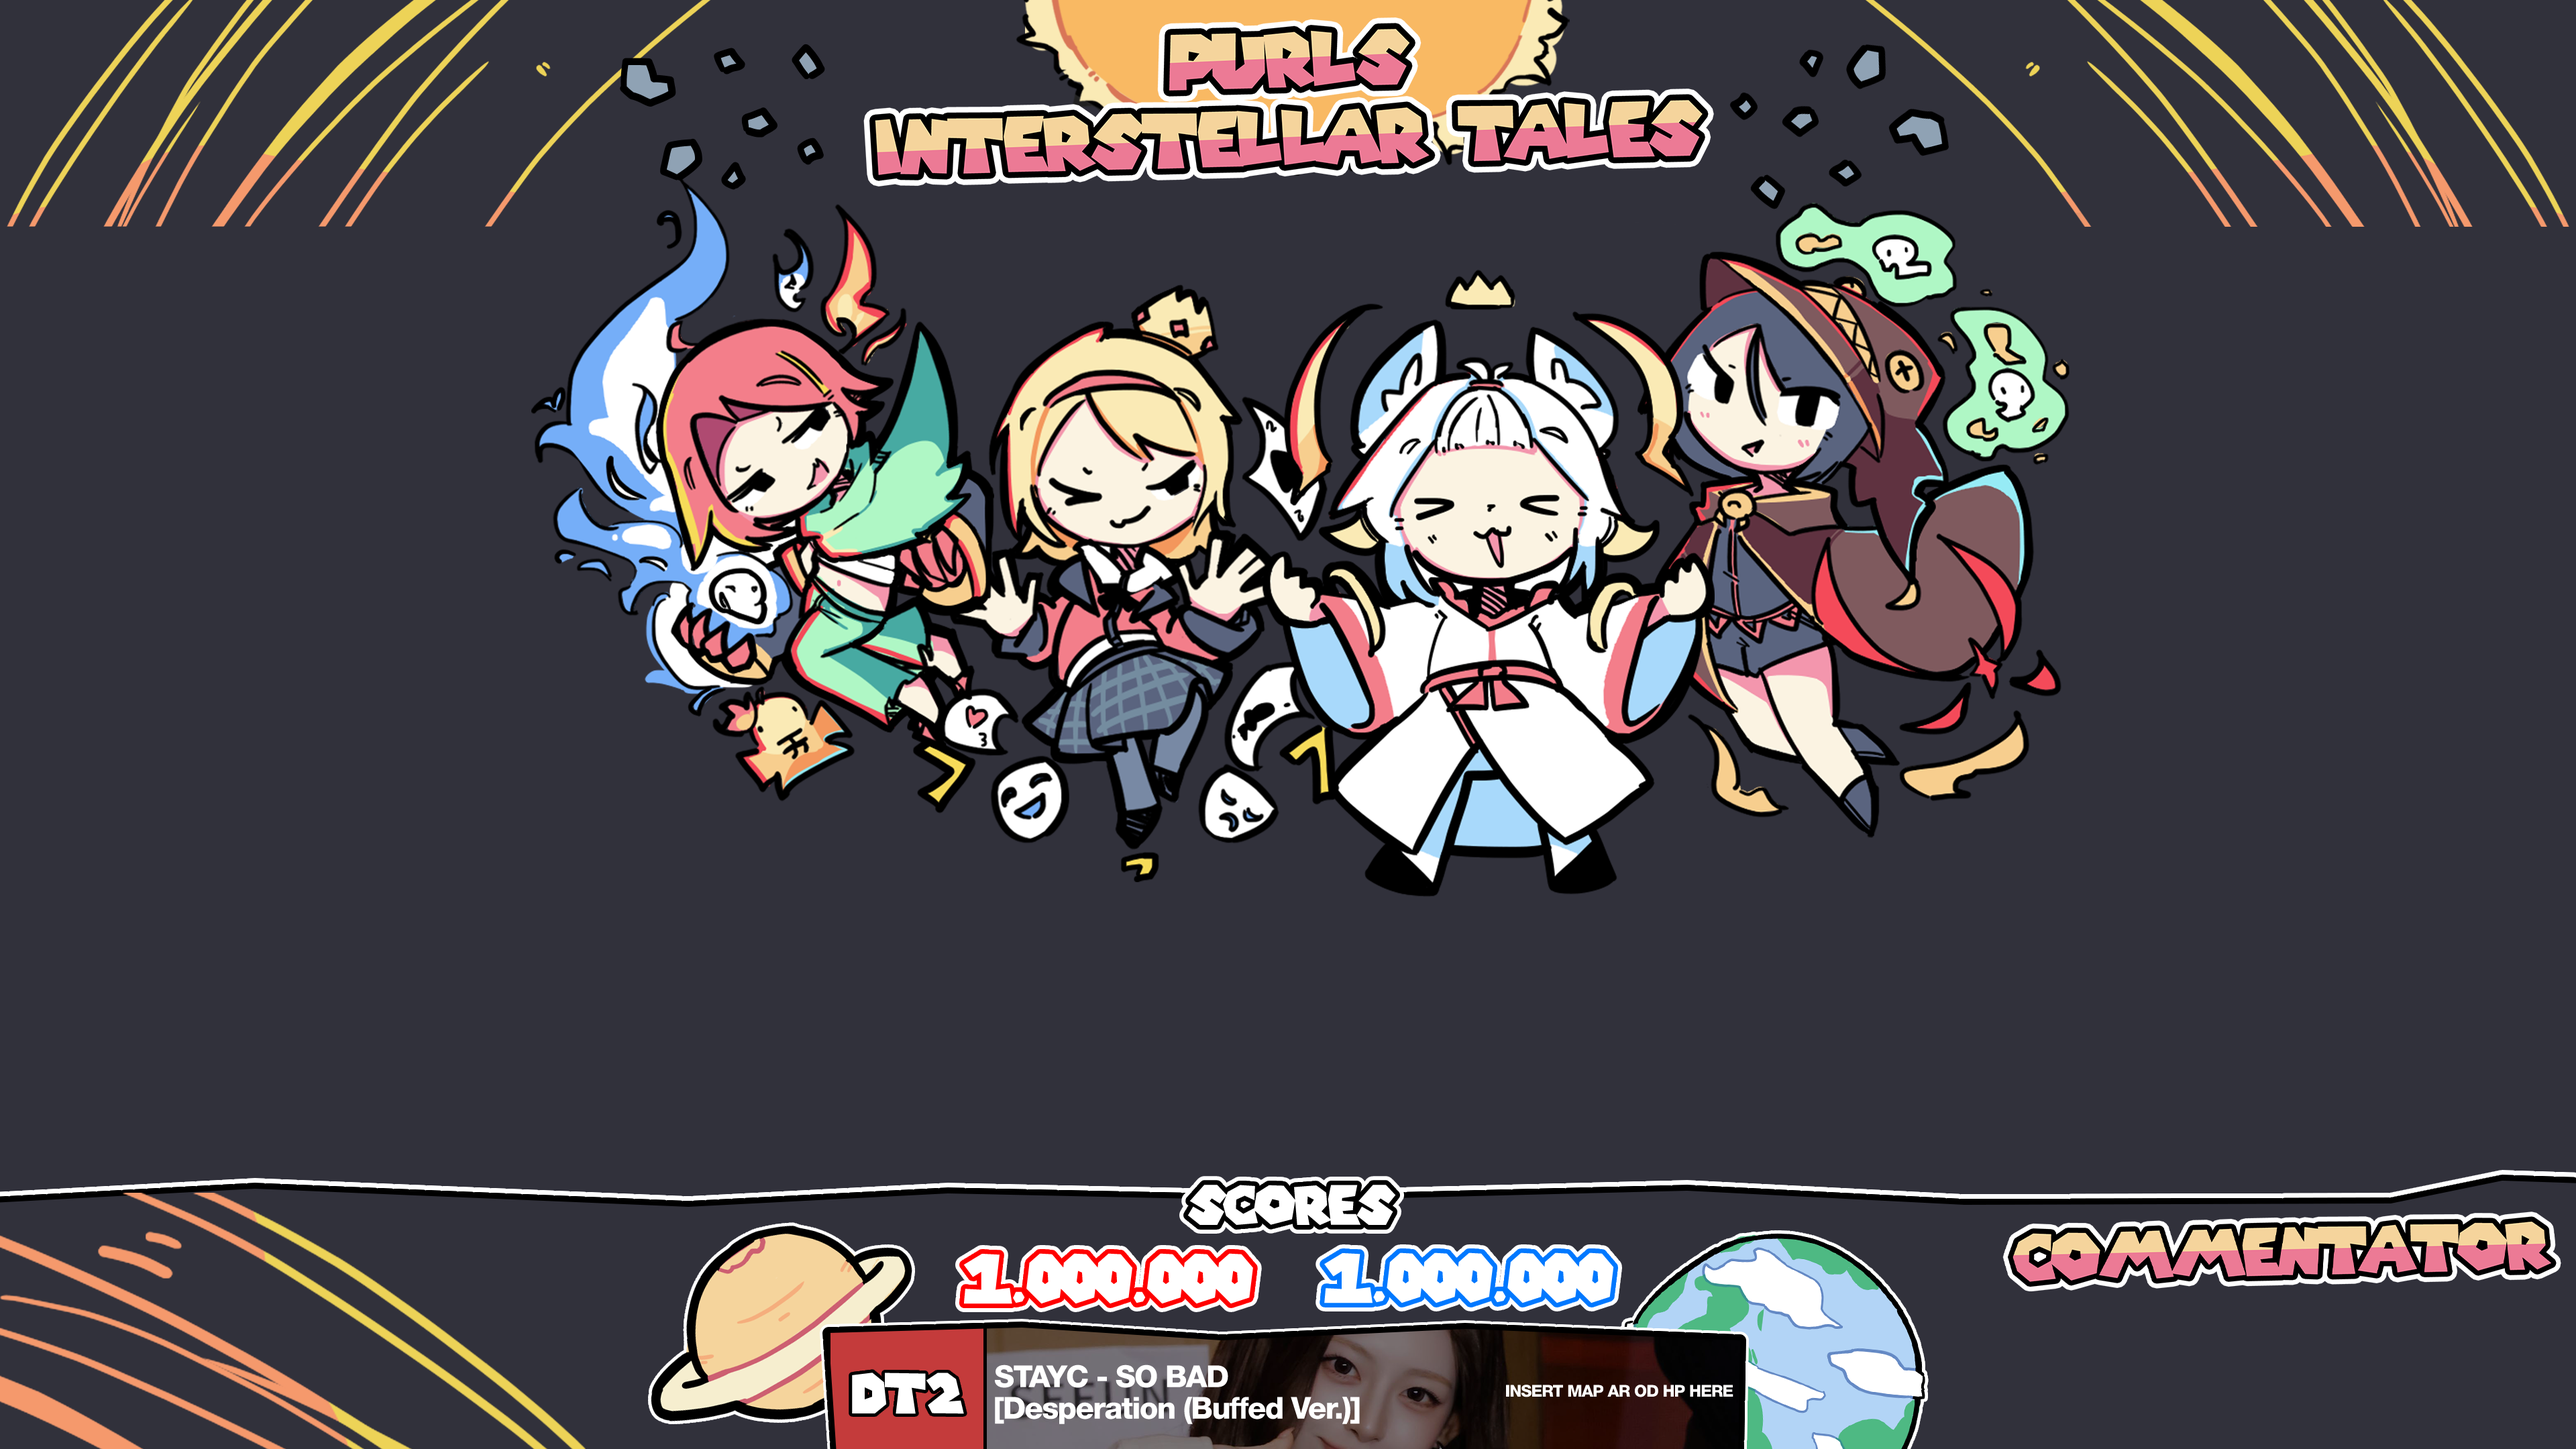
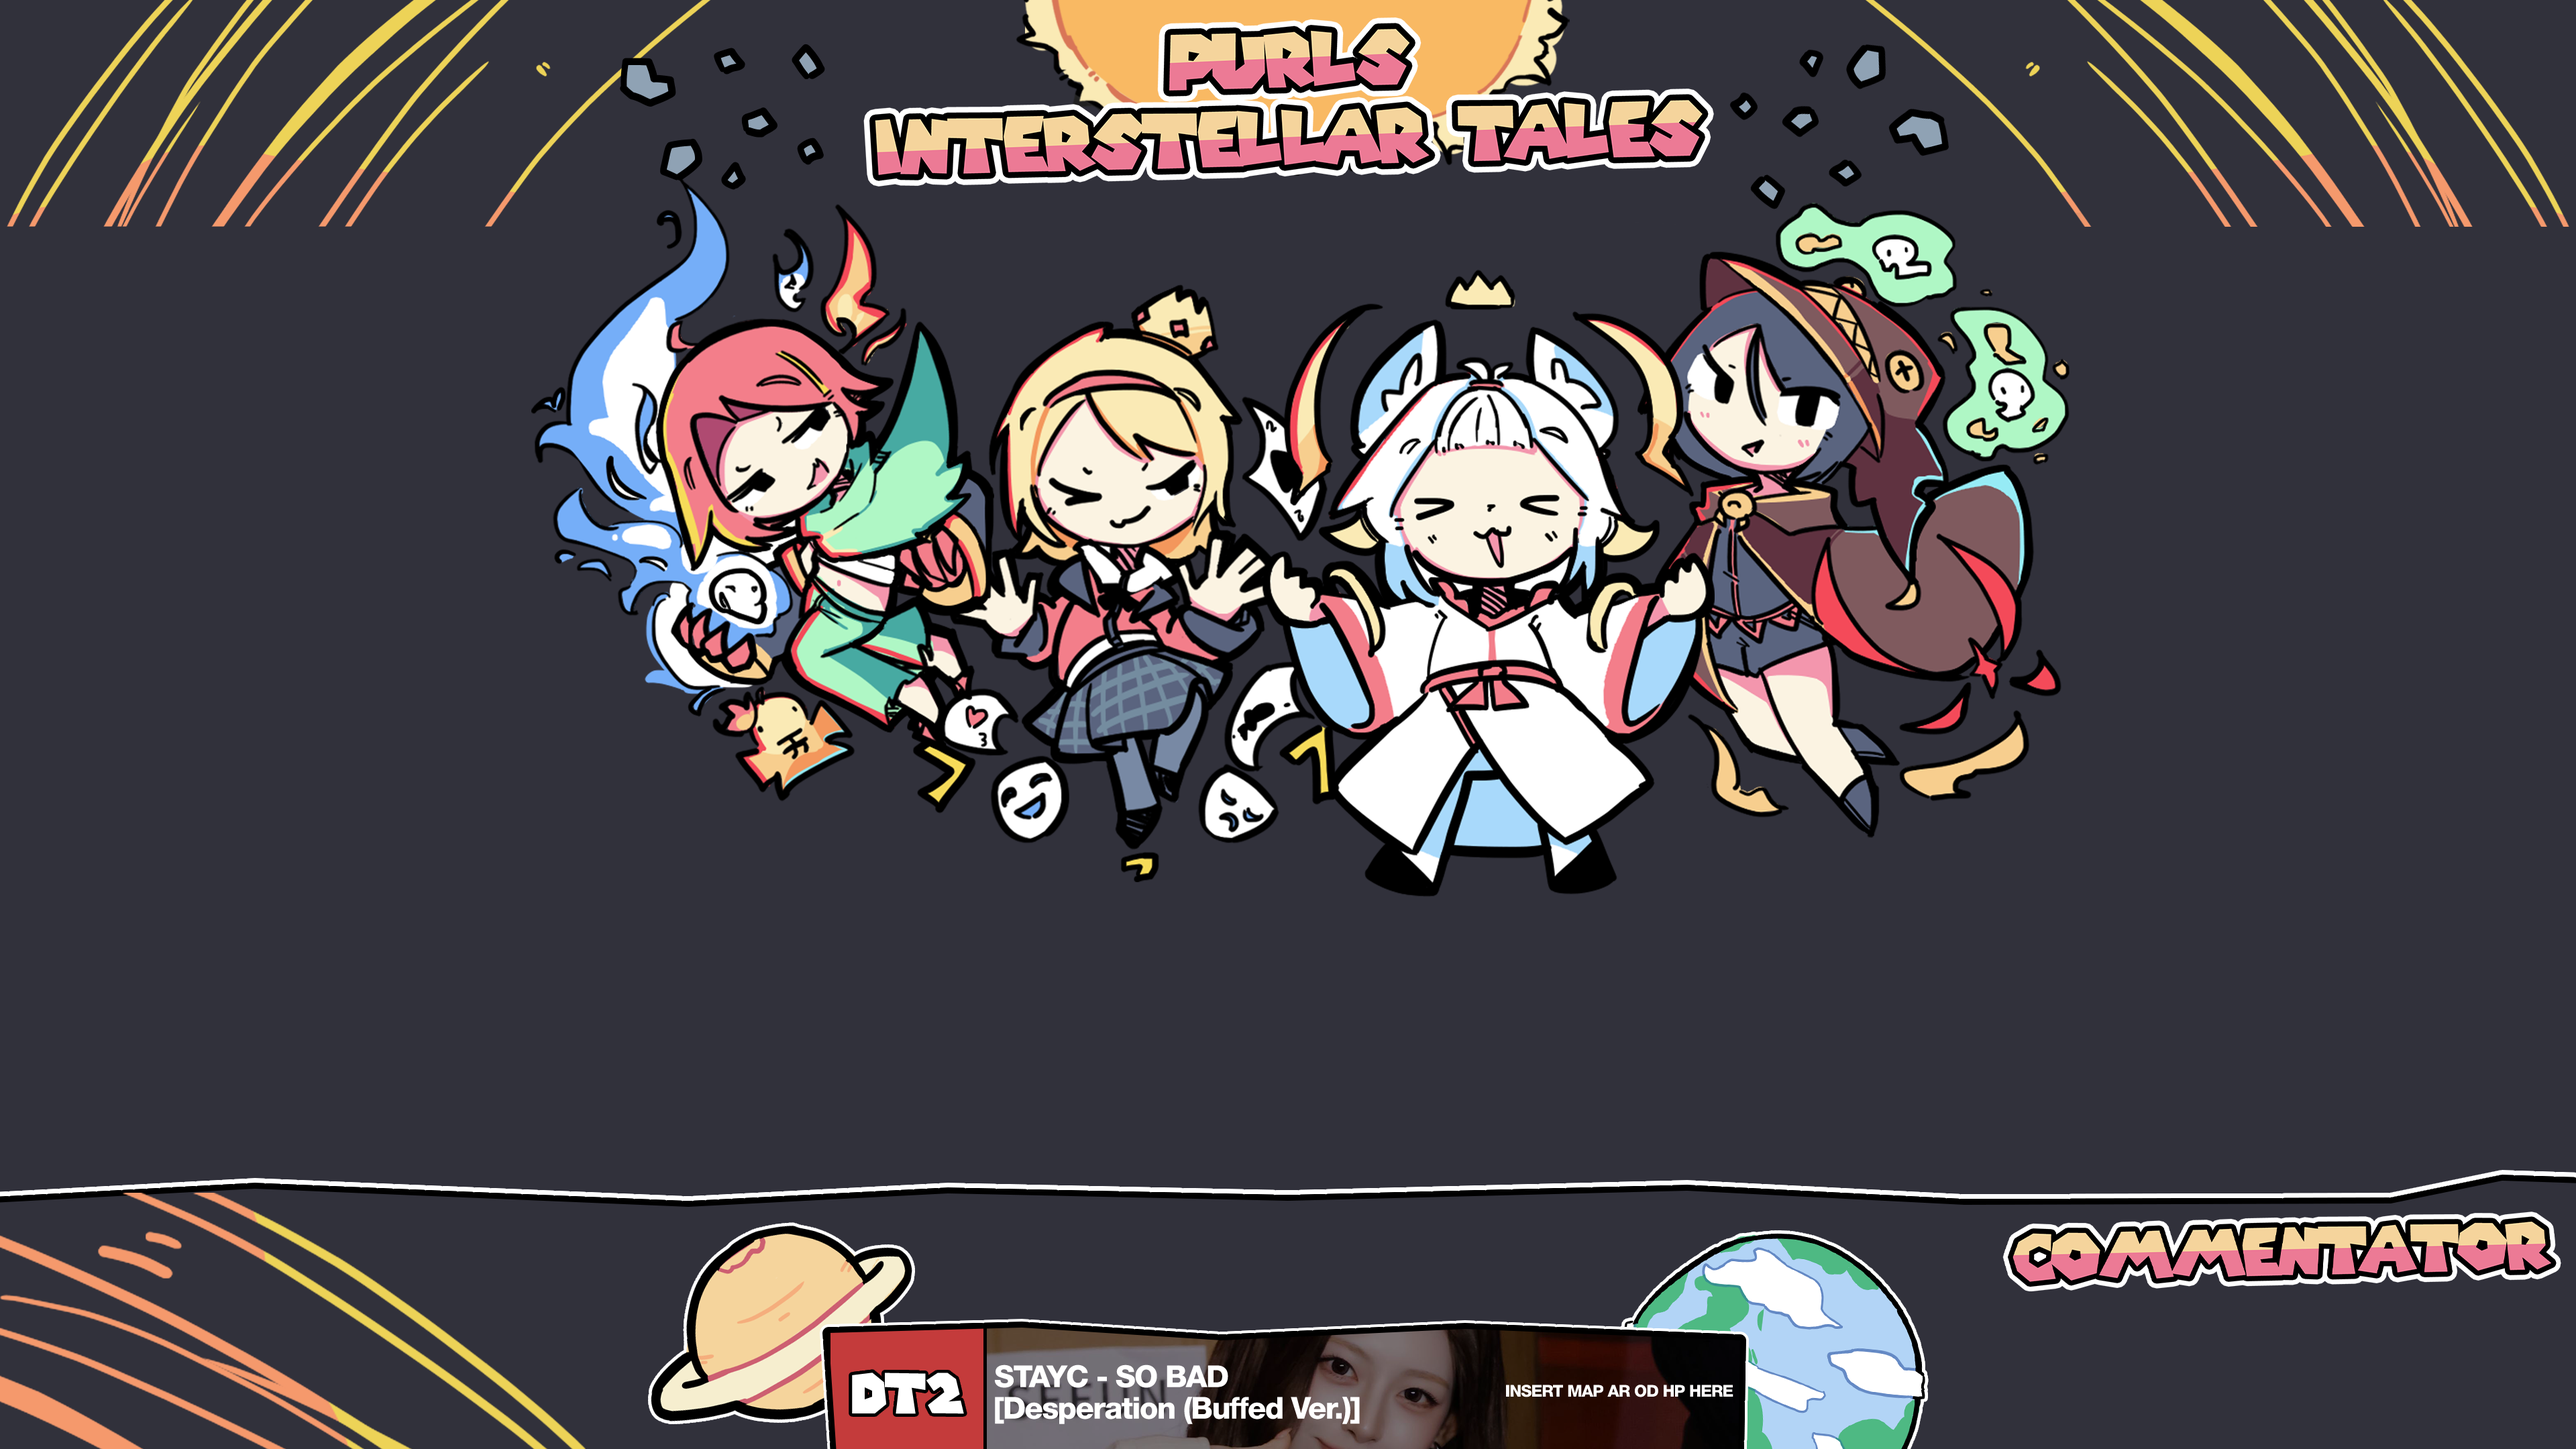
feat: add score styling

Changed region(s): [[0.3438, 0.8065, 0.6562, 0.9306], [0.4688, 0.9926, 0.5, 1.0], [0.4375, 0.9616, 0.4688, 0.9926]]

diff --git a/main/index.html b/main/index.html
@@ -36,7 +36,7 @@
                     <feComposite in="white-color" in2="white-round" operator="in" result="white-layer" />
                 
                     <!-- Inner red ring -->
-                    <feMorphology in="SourceAlpha" operator="dilate" radius="3" result="red-dilate" />
+                    <feMorphology in="SourceAlpha" operator="dilate" radius="3.5" result="red-dilate" />
                     <feGaussianBlur in="red-dilate" stdDeviation="1.5" result="red-blur" />
                     <feColorMatrix
                         in="red-blur"
@@ -110,7 +110,7 @@
                     <feComposite in="white-color" in2="white-round" operator="in" result="white-layer" />
                 
                     <!-- Inner black ring -->
-                    <feMorphology in="SourceAlpha" operator="dilate" radius="2.5" result="black-dilate" />
+                    <feMorphology in="SourceAlpha" operator="dilate" radius="3.5" result="black-dilate" />
                     <feGaussianBlur in="black-dilate" stdDeviation="1.2" result="black-blur" />
                     <feColorMatrix
                         in="black-blur"
@@ -147,6 +147,7 @@
                 ROUND NAME HERE
             </text>
         </svg>
+
         <!-- Team Name Right  -->
         <svg
             class="team-name-container team-name-container-right"
@@ -173,7 +174,7 @@
                     <feComposite in="white-color" in2="white-round" operator="in" result="white-layer" />
                 
                     <!-- Inner blue ring -->
-                    <feMorphology in="SourceAlpha" operator="dilate" radius="3" result="blue-dilate" />
+                    <feMorphology in="SourceAlpha" operator="dilate" radius="3.5" result="blue-dilate" />
                     <feGaussianBlur in="blue-dilate" stdDeviation="1.5" result="blue-blur" />
                     <feColorMatrix
                         in="blue-blur"
@@ -235,14 +236,141 @@
             <img class="chatbox-jupiter" src="static/chatbox/jupiter.png">
             <img class="chatbox-uranus" src="static/chatbox/uranus.png">
         </div>
+
+        <!-- Scores and Now Playing -->
+        <div class="scores-now-playing">
+            <!-- Scores Text -->
+            <img class="scores-text" src="static/scores.png">
+
+            <!-- Left Score -->
+            <svg
+                class="team-left-score-container"
+                xmlns="http://www.w3.org/2000/svg"
+                width="600"
+                height="104"
+                viewBox="0 0 600 104"
+            >
+                <defs>
+                    <filter id="outline-blend-score-red" x="-20%" y="-50%" width="140%" height="200%">
+                        <!-- Outer white ring -->
+                        <feMorphology in="SourceAlpha" operator="dilate" radius="6" result="white-dilate" />
+                        <feGaussianBlur in="white-dilate" stdDeviation="2.5" result="white-blur" />
+                        <feColorMatrix
+                            in="white-blur"
+                            type="matrix"
+                            values="0 0 0 0 0
+                                    0 0 0 0 0
+                                    0 0 0 0 0
+                                    0 0 0 25 -8"
+                            result="white-round"
+                        />
+                        <feFlood flood-color="white" result="white-color" />
+                        <feComposite in="white-color" in2="white-round" operator="in" result="white-layer" />
+                    
+                        <!-- Inner red ring -->
+                        <feMorphology in="SourceAlpha" operator="dilate" radius="3.5" result="red-dilate" />
+                        <feGaussianBlur in="red-dilate" stdDeviation="1.5" result="red-blur" />
+                        <feColorMatrix
+                            in="red-blur"
+                            type="matrix"
+                            values="0 0 0 0 0
+                                    0 0 0 0 0
+                                    0 0 0 0 0
+                                    0 0 0 25 -8"
+                            result="red-round"
+                        />
+                        <feFlood flood-color="#ff0000" result="red-color" />
+                        <feComposite in="red-color" in2="red-round" operator="in" result="red-layer" />
+                    
+                        <!-- Stack: white ring (bottom) -> red ring -> actual text fill (top) -->
+                        <feMerge>
+                            <feMergeNode in="white-layer" />
+                            <feMergeNode in="red-layer" />
+                            <feMergeNode in="SourceGraphic" />
+                        </feMerge>
+                    </filter>
+                </defs>
+            
+                <text
+                    x="553"
+                    y="78"
+                    text-anchor="end"
+                    font-size="48px"
+                    letter-spacing="-1"
+                    font-family="Super Mario Galaxy"
+                    fill="white"
+                    class="team-name-right"
+                    filter="url(#outline-blend-score-red)"
+                >
+                    1,000,000
+                </text>
+            </svg>
+
+            <!-- Right Score -->
+            <svg
+                class="team-right-score-container"
+                xmlns="http://www.w3.org/2000/svg"
+                width="600"
+                height="104"
+                viewBox="0 0 600 104"
+            >
+                <defs>
+                    <filter id="outline-blend-score-blue" x="-20%" y="-50%" width="140%" height="200%">
+                        <!-- Outer white ring -->
+                        <feMorphology in="SourceAlpha" operator="dilate" radius="6" result="white-dilate" />
+                        <feGaussianBlur in="white-dilate" stdDeviation="2.5" result="white-blur" />
+                        <feColorMatrix
+                            in="white-blur"
+                            type="matrix"
+                            values="0 0 0 0 0
+                                    0 0 0 0 0
+                                    0 0 0 0 0
+                                    0 0 0 25 -8"
+                            result="white-round"
+                        />
+                        <feFlood flood-color="white" result="white-color" />
+                        <feComposite in="white-color" in2="white-round" operator="in" result="white-layer" />
+                    
+                        <!-- Inner blue ring -->
+                        <feMorphology in="SourceAlpha" operator="dilate" radius="3.5" result="blue-dilate" />
+                        <feGaussianBlur in="blue-dilate" stdDeviation="1.5" result="blue-blur" />
+                        <feColorMatrix
+                            in="blue-blur"
+                            type="matrix"
+                            values="0 0 0 0 0
+                                    0 0 0 0 0
+                                    0 0 0 0 0
+                                    0 0 0 25 -8"
+                            result="blue-round"
+                        />
+                        <feFlood flood-color="#0078ff" result="blue-color" />
+                        <feComposite in="blue-color" in2="blue-round" operator="in" result="blue-layer" />
+                    
+                        <!-- Stack: white ring (bottom) -> blue ring -> actual text fill (top) -->
+                        <feMerge>
+                            <feMergeNode in="white-layer" />
+                            <feMergeNode in="blue-layer" />
+                            <feMergeNode in="SourceGraphic" />
+                        </feMerge>
+                    </filter>
+                </defs>
+            
+                <text
+                    x="47"
+                    y="78"
+                    text-anchor="start"
+                    font-size="48px"
+                    letter-spacing="-1"
+                    font-family="Super Mario Galaxy"
+                    fill="white"
+                    class="team-name-right"
+                    filter="url(#outline-blend-score-blue)"
+                >
+                    1,000,000
+                </text>
+            </svg>
+        </div>
     </div>
 
     <script src="index.js" type="module"></script>
 </body>
-
-<!-- font-size: 93px;
-letter-spacing: -4px;
-line-height: 63px;
-color: #ffffff;
-font-family: "Super Mario Galaxy";
-border: 13px solid #ffffff; -->

diff --git a/main/style.css b/main/style.css
@@ -76,3 +76,27 @@
     width: 145px;
     z-index: 1;
 }
+
+/* Scores */
+.scores-text {
+    position: absolute;
+    bottom: 160px;
+    left: 960px;
+    transform: translateX(-50%);
+    width: 175px;
+}
+
+/* Team Score Container */
+.team-left-score-container {
+    position: absolute;
+    bottom: 84px;
+    right: 941px;
+    transform: skewX(-2deg)
+}
+
+.team-right-score-container {
+    position: absolute;
+    bottom: 84px;
+    left: 941px;
+    transform: skewX(-2deg)
+}
